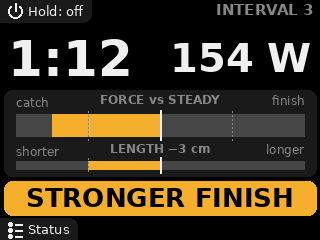
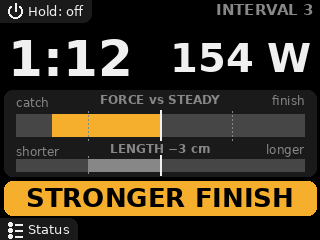
Coach screens: only the cue's own bar turns amber
STRONGER FINISH and LONGER STROKES looked alike (both bars amber, both to the left).
While a cue is up, its bar is amber and the other grey; the length bar is a little
thicker. Same on the Pi's screen, the web page and Float.

Claude-Session: https://claude.ai/code/session_01TQnERzjf5ZgAPTdZU28bmm

Changed region(s): [[0.0312, 0.6417, 0.9688, 0.7292]]

diff --git a/smartrow_bridge/web/index.html b/smartrow_bridge/web/index.html
@@ -75,7 +75,7 @@
   .ends { display: flex; justify-content: space-between; align-items: baseline; font-size: var(--label); color: var(--dim); }
   .ends b { color: var(--dim); letter-spacing: .04em; }
   .cbar { position: relative; height: clamp(18px, 4.5vmin, 44px); background: var(--faint); margin: 8px 0 12px; }
-  .cbar.thin { height: clamp(6px, 1.4vmin, 12px); }
+  .cbar.thin { height: clamp(9px, 2.2vmin, 20px); }
   .cbar .fill { position: absolute; top: 0; bottom: 0; }
   .cbar .mid { position: absolute; left: 50%; top: -6px; bottom: -6px; width: 3px; margin-left: -1px; background: var(--fg); }
   .cbar .mark { position: absolute; top: -3px; bottom: -3px; border-left: 1px dashed var(--dim); }
@@ -350,23 +350,26 @@ function shapeColour(i) {
   if (i.balance === null || i.balance === undefined) return i.legs_late ? C.amber : (RATING[i.rating] || C.fg);
   return Math.abs(i.balance) >= 1 || (i.length_balance ?? 0) <= -1 ? C.amber : C.green;
 }
-function pipCentreBar(g, x0, y0, x1, y1, value, warnAbove = true) {
+function pipCentreBar(g, x0, y0, x1, y1, value, warnAbove = true, override = null) {
   const mid = (x0 + x1) / 2, half = (x1 - x0) / 2;
   const at = (v) => mid + half * Math.max(-BAR_RANGE, Math.min(BAR_RANGE, v)) / BAR_RANGE;
   g.fillStyle = C.faint; g.fillRect(x0, y0, x1 - x0, y1 - y0);
   if (value !== null && value !== undefined) {
-    g.fillStyle = value <= -1 || (warnAbove && value >= 1) ? C.amber : C.green;
+    g.fillStyle = override || (value <= -1 || (warnAbove && value >= 1) ? C.amber : C.green);
     const x = at(value); g.fillRect(Math.min(mid, x), y0, Math.abs(x - mid), y1 - y0);
   }
   g.fillStyle = C.dim;
   for (const v of warnAbove ? [-1, 1] : [-1]) for (let y = y0 - 3; y < y1 + 3; y += 4) g.fillRect(at(v), y, 1, 2);
   g.fillStyle = C.fg; g.fillRect(mid - 1, y0 - 5, 3, y1 - y0 + 10);
 }
-function centreBar(el, value, warnAbove = true) {
+// Only the bar the cue is about turns amber; the other goes grey (as on the Pi's screen).
+const barColour = (cue, mine) => cue === null || cue === undefined || cue === "good" ? null
+  : mine.includes(cue) ? C.amber : C.dim;
+function centreBar(el, value, warnAbove = true, override = null) {
   const at = (v) => 50 + 50 * Math.max(-BAR_RANGE, Math.min(BAR_RANGE, v)) / BAR_RANGE;
   let html = "";
   if (value !== null && value !== undefined) {
-    const colour = value <= -1 || (warnAbove && value >= 1) ? C.amber : C.green;
+    const colour = override || (value <= -1 || (warnAbove && value >= 1) ? C.amber : C.green);
     const x = at(value);
     html += `<div class="fill" style="left:${Math.min(50, x)}%;width:${Math.abs(x - 50)}%;background:${colour}"></div>`;
   }
@@ -381,8 +384,8 @@ function renderInterval(live) {
   $("iClock").textContent = fmtTime(live.elapsed_s);
   $("iWatts").textContent = `${live.power_w} W`;
   const judged = live.balance !== null && live.balance !== undefined;
-  centreBar($("iBal"), live.balance);
-  centreBar($("iLenBar"), live.length_balance, false);
+  centreBar($("iBal"), live.balance, true, barColour(live.cue, ["finish", "legs"]));
+  centreBar($("iLenBar"), live.length_balance, false, barColour(live.cue, ["length"]));
   $("iLen").textContent = judged ? `LENGTH ${signed(live.length_delta_cm, " cm")}` : "LENGTH";
   const cue = $("iCue"), [text, cueColour] = CUES[live.cue] || ["…", null];
   cue.textContent = text;
@@ -880,8 +883,8 @@ function drawPip() {
     text("catch", 16, 98, 18, C.dim, "left", false);
     text("FORCE vs STEADY" + (hrNow ? `   ♥ ${hrNow}` : ""), W / 2, 98, 18, C.dim, "center");
     text("finish", W - 16, 98, 18, C.dim, "right", false);
-    pipCentreBar(g, 16, 112, W - 16, 138, live.balance);
-    pipCentreBar(g, 16, 152, W - 16, 160, live.length_balance, false);
+    pipCentreBar(g, 16, 112, W - 16, 138, live.balance, true, barColour(live.cue, ["finish", "legs"]));
+    pipCentreBar(g, 16, 150, W - 16, 162, live.length_balance, false, barColour(live.cue, ["length"]));
     const [label, cueColour] = CUES[live.cue] || ["…", C.tile];
     g.fillStyle = cueColour; g.beginPath(); g.roundRect(10, 175, W - 20, 80, 14); g.fill();
     text(label, W / 2, 216, label.length > 14 ? 34 : 44, live.cue ? C.bg : C.dim, "center");

diff --git a/smartrow_bridge/display/screens.py b/smartrow_bridge/display/screens.py
@@ -362,10 +362,10 @@ BAR_RANGE = 2.0  # the bars show +-2 cue thresholds; the markers sit at +-1
 
 
 def _centre_bar(draw: ImageDraw.ImageDraw, box: tuple[int, int, int, int], value: float | None,
-                pointer: bool = True, warn_above: bool = True) -> None:
+                pointer: bool = True, warn_above: bool = True, colour: tuple | None = None) -> None:
     """A bar that grows out from the middle (your steady stroke): green inside the markers at
     +-1 (where the cues start), amber beyond. Clamped at +-BAR_RANGE, with an arrowhead.
-    warn_above=False: only the left side warns (longer strokes are fine)."""
+    warn_above=False: only the left side warns (longer strokes are fine). colour overrides it."""
     x0, y0, x1, y1 = box
     mid = (x0 + x1) / 2
     half = (x1 - x0) / 2
@@ -375,7 +375,7 @@ def _centre_bar(draw: ImageDraw.ImageDraw, box: tuple[int, int, int, int], value
 
     draw.rectangle(box, fill=FAINT)
     if value is not None:
-        colour = AMBER if value <= -1 or (warn_above and value >= 1) else GREEN
+        colour = colour or (AMBER if value <= -1 or (warn_above and value >= 1) else GREEN)
         end = at(value)
         if abs(end - mid) >= 2:
             draw.rectangle((min(mid, end), y0, max(mid, end), y1), fill=colour)
@@ -389,8 +389,16 @@ def _centre_bar(draw: ImageDraw.ImageDraw, box: tuple[int, int, int, int], value
     draw.line((mid, y0 - 4, mid, y1 + 4), fill=FG, width=2)
 
 
+def _bar_colour(cue: str | None, mine: tuple[str, ...]) -> tuple | None:
+    """Only the bar the cue is about turns amber; the other goes grey, so the two cues look
+    different at a glance. LOOKS GOOD (or no cue yet): each bar by its own markers."""
+    if cue in (None, "good"):
+        return None
+    return AMBER if cue in mine else DIM
+
+
 def _shape_meter(draw: ImageDraw.ImageDraw, box: tuple[int, int, int, int], balance: float | None,
-                 length_balance: float | None, length_delta: int | None) -> None:
+                 length_balance: float | None, length_delta: int | None, cue: str | None = None) -> None:
     """During an effort: where the force sits in the drive (left: towards the catch, the finish
     fading; right: towards the finish, a late push) and the stroke length (left: shorter), each
     against your steady stroke in the middle."""
@@ -400,12 +408,13 @@ def _shape_meter(draw: ImageDraw.ImageDraw, box: tuple[int, int, int, int], bala
     draw.text((bx0, y0 + 5), "catch", font=font(12), fill=DIM)
     draw.text(((bx0 + bx1) // 2, y0 + 5), "FORCE vs STEADY", font=font(12, True), fill=DIM, anchor="mt")
     draw.text((bx1, y0 + 5), "finish", font=font(12), fill=DIM, anchor="rt")
-    _centre_bar(draw, (bx0, y0 + 24, bx1, y0 + 46), balance)
+    _centre_bar(draw, (bx0, y0 + 24, bx1, y0 + 46), balance, colour=_bar_colour(cue, ("finish", "legs")))
     draw.text((bx0, y0 + 54), "shorter", font=font(12), fill=DIM)
     label = "LENGTH" if length_delta is None else f"LENGTH {length_delta:+d} cm".replace("-", "\u2212")
     draw.text(((bx0 + bx1) // 2, y0 + 54), label, font=font(12, True), fill=DIM, anchor="mt")
     draw.text((bx1, y0 + 54), "longer", font=font(12), fill=DIM, anchor="rt")
-    _centre_bar(draw, (bx0, y0 + 71, bx1, y0 + 79), length_balance, pointer=False, warn_above=False)
+    _centre_bar(draw, (bx0, y0 + 69, bx1, y0 + 81), length_balance, pointer=False, warn_above=False,
+                colour=_bar_colour(cue, ("length",)))
 
 
 def _mini_meter(draw: ImageDraw.ImageDraw, box: tuple[int, int, int, int], pct: int,
@@ -431,7 +440,7 @@ def interval_screen(status: dict, now: float, uptime: float) -> Image.Image:
     draw.text((8, 58), format_time(live["elapsed_s"]), font=font(50, True), fill=FG, anchor="lm")
     draw.text((WIDTH - 8, 58), f"{live['power_w']} W", font=font(40, True), fill=FG, anchor="rm")
     _shape_meter(draw, (4, 90, WIDTH - 4, 176), live.get("balance"), live.get("length_balance"),
-                 live.get("length_delta_cm") if live.get("balance") is not None else None)
+                 live.get("length_delta_cm") if live.get("balance") is not None else None, live.get("cue"))
 
     text, colour = CUES.get(live.get("cue"), ("…", DIM))
     banner = (4, 181, WIDTH - 4, 215)

diff --git a/README.md b/README.md
@@ -385,7 +385,9 @@ at 70 W or 250 W.
   - **LENGTH**: left is shorter strokes, right longer.
 
   The dashed markers are where the cues start: green inside them, amber past them (longer strokes stay
-  green). No percentages to read while you row; the numbers are in the summary afterwards. Each cue is two words, what to do and
+  green). While a cue is up, only the bar it is about is amber and the other is grey, so STRONGER FINISH
+  (the big bar) and LONGER STROKES (the thin one) look different at a glance. No percentages to read
+  while you row; the numbers are in the summary afterwards. Each cue is two words, what to do and
   the part of the stroke, so it reads at a glance when you're tired. They never name a muscle: the pulley
   measures the total force on the strap, and different causes look alike (an early arm pull, for one, can
   pass for a strong push off the catch). A cue flags a change against your own steady rowing; a video of
